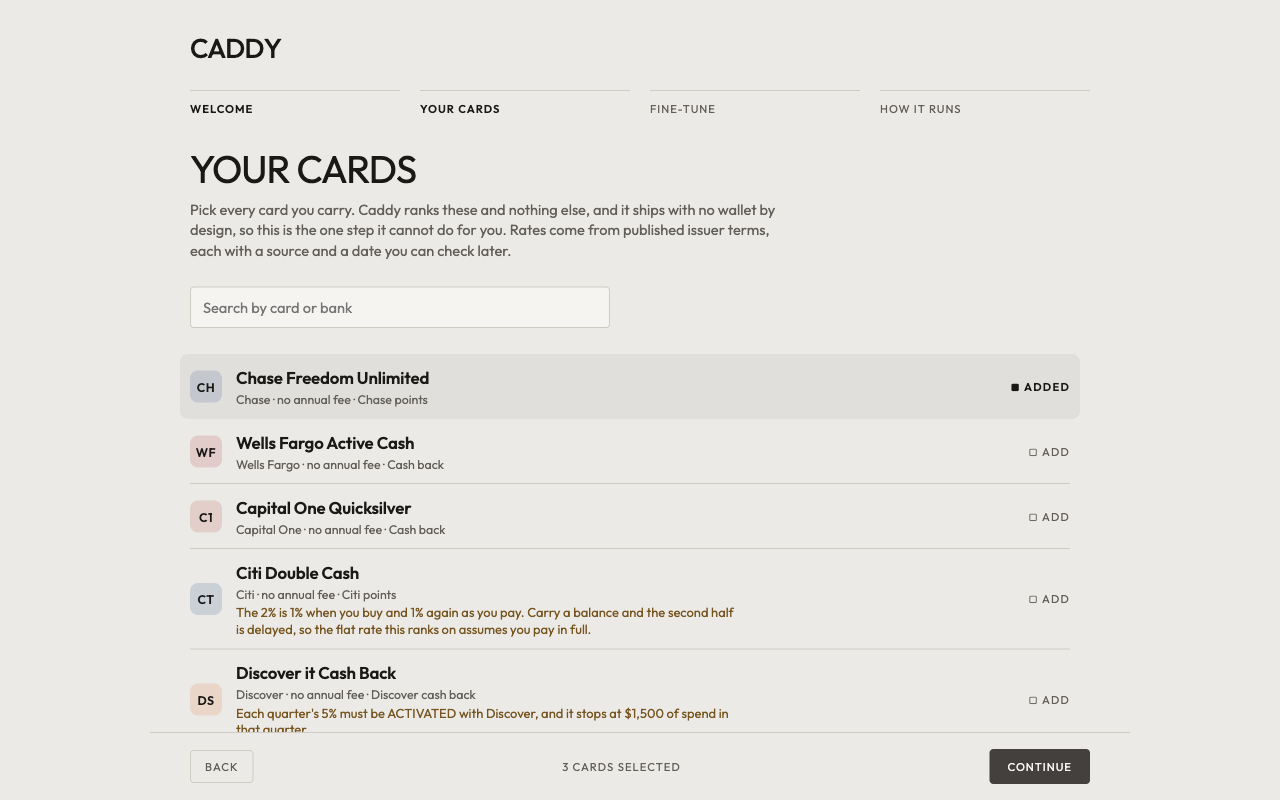
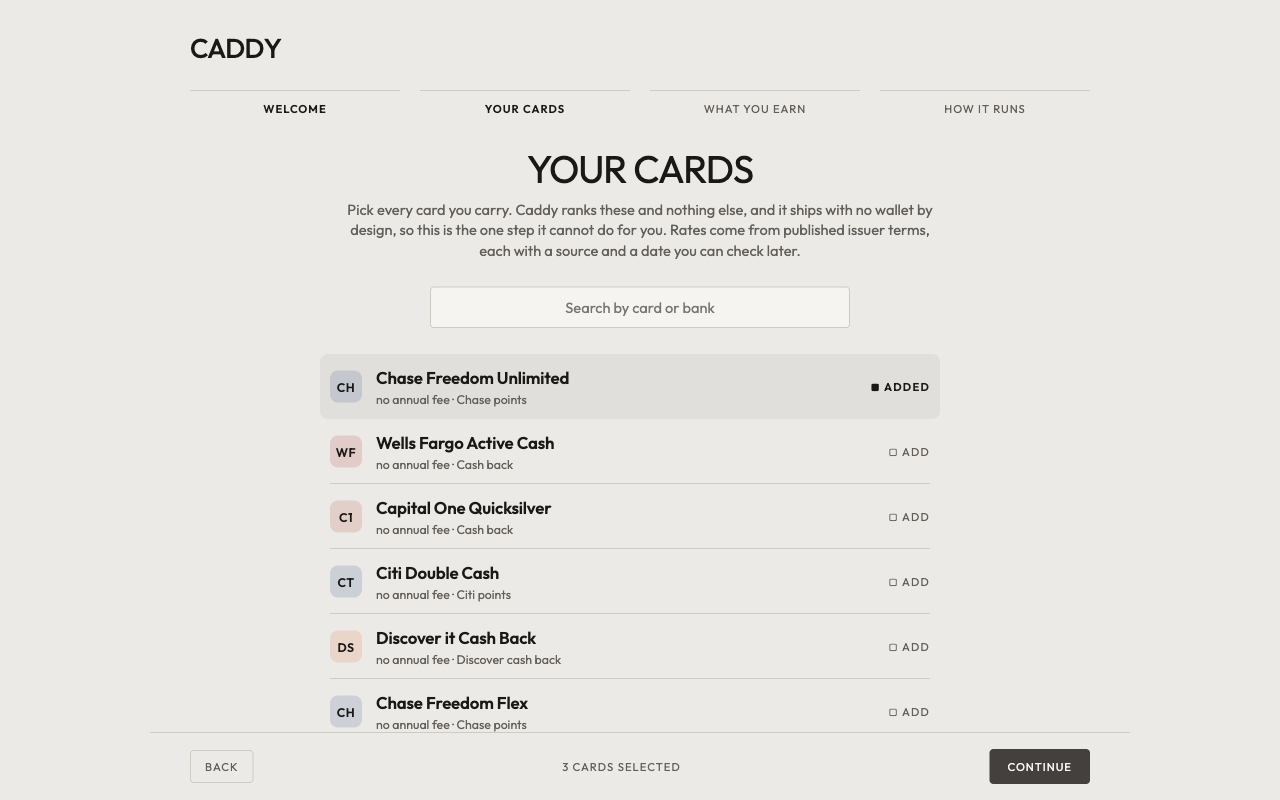
Regenerate the store screenshots, and teach the tool to page
The setup shot captured a step that no longer exists. Regenerating it needed a
fix first: the picker now pages six at a time, so two of the three wallet cards
are not on the first page and the script's click loop found only one of them.

It now pages forward to reach each card and returns to page one for the capture,
which is the frame the listing describes. The assertion moved with it -- counting
aria-pressed rows on screen would report 1 and fail a run that did exactly the
right thing, so it reads the footer note, which is rendered off the picked set.

Settings did not change in the rework and its shot came back identical. The dock
shot is untouched, as the script is careful to leave it.

Nothing is blocking submission now, so the handoff leads with the submission
itself rather than with a missing asset.

diff --git a/HANDOFF.md b/HANDOFF.md
@@ -13,41 +13,18 @@ works and why; this file is only the state of play.
 - **Every card verified** against its issuer's own page, each carrying a
   `source_url` and the date it was read.
 - **Tests green**: 285 engine + 24 setup + 49 lifecycle + 40 worker. `npm test`.
-- **Nothing unpushed, nothing untracked.** The dock screenshot that was blocking
-  submission is done, correct and committed.
+- **Nothing unpushed, nothing untracked.** All three store screenshots are
+  current, so nothing is blocking submission any more.
 - **`caddy-1.0.0.zip` sits in the repo root**, rebuilt on every commit. See the
   packaging note below.
 
 ---
 
-## 1. Screenshot 2 is out of date — and it is the only thing stopping submission
+## 1. Submit to the Chrome Web Store
 
-`store/screenshots/2-setup-your-cards.png` shows a setup step that no longer
-exists. It has the old FINE-TUNE label in the stepper, left-aligned content,
-an issuer line under each card name, the yellow caution paragraphs, and no
-pager. All five are gone.
+Everything is written, checked and current. This is the next thing to do.
 
-**Fix it by running the tool**, which is for you rather than Claude because it
-drives a real browser process:
-
-```
-node tools/make-screenshots.mjs
-```
-
-It regenerates `1-settings-cards.png` and `2-setup-your-cards.png` at exactly
-1280x800 and deliberately leaves `3-dock-on-a-store.png` alone. Check the new
-file before committing it.
-
-`1-settings-cards.png` is Settings, which did not change, so it will come back
-the same. `3-dock-on-a-store.png` is correct as committed: hotels.com, panel
-open, Citi Double Cash winning at 2.80% with the Sapphire Reserve portal note
-under it, no tab bar and nothing personal in frame.
-
----
-
-## 2. Submit to the Chrome Web Store
-
-Everything except that screenshot is written and checked.
+### What is ready
 
 - `store/listing.md` — name, both descriptions, category, single-purpose
   statement, a justification for each of `storage`, `activeTab`, `scripting` and
@@ -60,6 +37,13 @@ Everything except that screenshot is written and checked.
   the change.
 - Icons ship already, drawn by `tools/make-icons.mjs`.
 - The upload is `caddy-1.0.0.zip` in the repo root. It is already built.
+- **All three screenshots are current at 1280x800.** `1-settings-cards.png` and
+  `2-setup-your-cards.png` were regenerated on 2026-09-13 by
+  `node tools/make-screenshots.mjs`, after the setup rework made the old setup
+  shot wrong. `3-dock-on-a-store.png` is the hand-captured one: hotels.com, panel
+  open, Citi Double Cash winning at 2.80% with the Sapphire Reserve portal note
+  under it, no browser chrome and nothing personal in frame. That script
+  deliberately leaves it alone, because it is the shot the script cannot make.
 
 **Expect the install prompt to be the thing reviewers and users react to.** As of
 v1.0.0 `<all_urls>` is declared in the manifest rather than optional, so Chrome
@@ -71,7 +55,7 @@ than hiding it.
 
 ---
 
-## 3. Dated: re-verify Chase Freedom Flex on 1 October 2026
+## 2. Dated: re-verify Chase Freedom Flex on 1 October 2026
 
 Its rotating 5% categories are verified for **Q3 2026 and expire 2026-09-30**.
 
@@ -86,7 +70,7 @@ advance and both live quarters are already in the file. That distinction is
 
 ---
 
-## 4. Dated: the point-values copy names two figures that move
+## 3. Dated: the point-values copy names two figures that move
 
 The "What you earn" step tells the reader where cents-per-point numbers come
 from, and to make that concrete it quotes two: The Points Guy at 2.05 cents for
@@ -106,7 +90,7 @@ different methodology, which is why they differ by a factor of two.
 
 ---
 
-## 5. Packaging
+## 4. Packaging
 
 `caddy-<version>.zip` in the repo root is the loadable extension: `manifest.json`,
 `src/`, `icons/` and `data/` minus `data/wallet.json`. Nothing else. The root
@@ -126,7 +110,7 @@ the README and a real person's card list.
 
 ---
 
-## 6. Not scheduled, worth knowing
+## 5. Not scheduled, worth knowing
 
 - **`welcome.js` still has no automated coverage.** Its decisions were extracted
   to `src/setup.js` and are tested; the rendering half is not, because it assigns

diff --git a/store/listing.md b/store/listing.md
@@ -263,7 +263,7 @@ without the first one.
 
 | Asset | Spec | Status |
 | --- | --- | --- |
-| Screenshots | 1280x800, 1-5, at least 1 required | **3 made, 1 stale** -- see below |
+| Screenshots | 1280x800, 1-5, at least 1 required | **All 3 current** -- regenerated 2026-09-13 |
 | Small promo tile | 440x280 | Optional, not made |
 | Marquee promo tile | 1400x560 | Optional, not made |
 | Store icon | 128x128 | `icons/icon128.png` ships already |
@@ -271,7 +271,7 @@ without the first one.
 **On screenshots.** Three are worth having, in this order. All three need the
 extension loaded in a real Chrome and a browser window sized so the page viewport
 is exactly **1280x800** -- the store rejects other sizes, and it does not scale.
-All three exist; number 2 needs regenerating before submission.
+All three are current as of 2026-09-13.
 
 1. **The dock and panel on a real store at checkout.** DONE and committed:
    hotels.com, panel open, Citi Double Cash winning at 2.80% with the Sapphire
@@ -284,13 +284,15 @@ All three exist; number 2 needs regenerating before submission.
    Do not mock this up. A screenshot of an overlay that does not behave like that
    in practice is the one kind of dishonesty this project has avoided everywhere
    else.
-2. **Setup, step two.** STALE as committed: it captures the step as it looked
-   before the September 2026 rework, so it still shows a FINE-TUNE label in the
-   rail, left-aligned content, an issuer line under each card name, the yellow
-   caution paragraphs and no pager. `node tools/make-screenshots.mjs` regenerates
-   it. The step now frames as: the step rail, a centred title and blurb, the
-   search box, six catalogue rows, the pager reading "6 OF 20 / PAGE 1 OF 4", and
-   the sticky footer with the selected count.
+2. **Setup, step two.** `node tools/make-screenshots.mjs` makes this one. It
+   opens the picker with an empty wallet and adds the same three cards the
+   Settings shot owns, paging forward to reach the two that are not on the first
+   page and returning to page one for the capture. At 1280x800 that frames as:
+   the four-step rail, a centred title and blurb, the search box, six catalogue
+   rows with Chase Freedom Unlimited showing as ADDED at the top, and the sticky
+   footer reading "3 CARDS SELECTED". The pager sits just below the fold and the
+   sixth row is clipped by the footer, which is expected -- the store captures a
+   viewport, not a full page. Verified 2026-09-13.
 3. **Settings, the Cards pane.** Current; Settings did not change in the rework.
    Open Options with three cards owned. At 1280x800
    this frames as: the sidebar, YOUR CARDS with three rows, and the top of the
